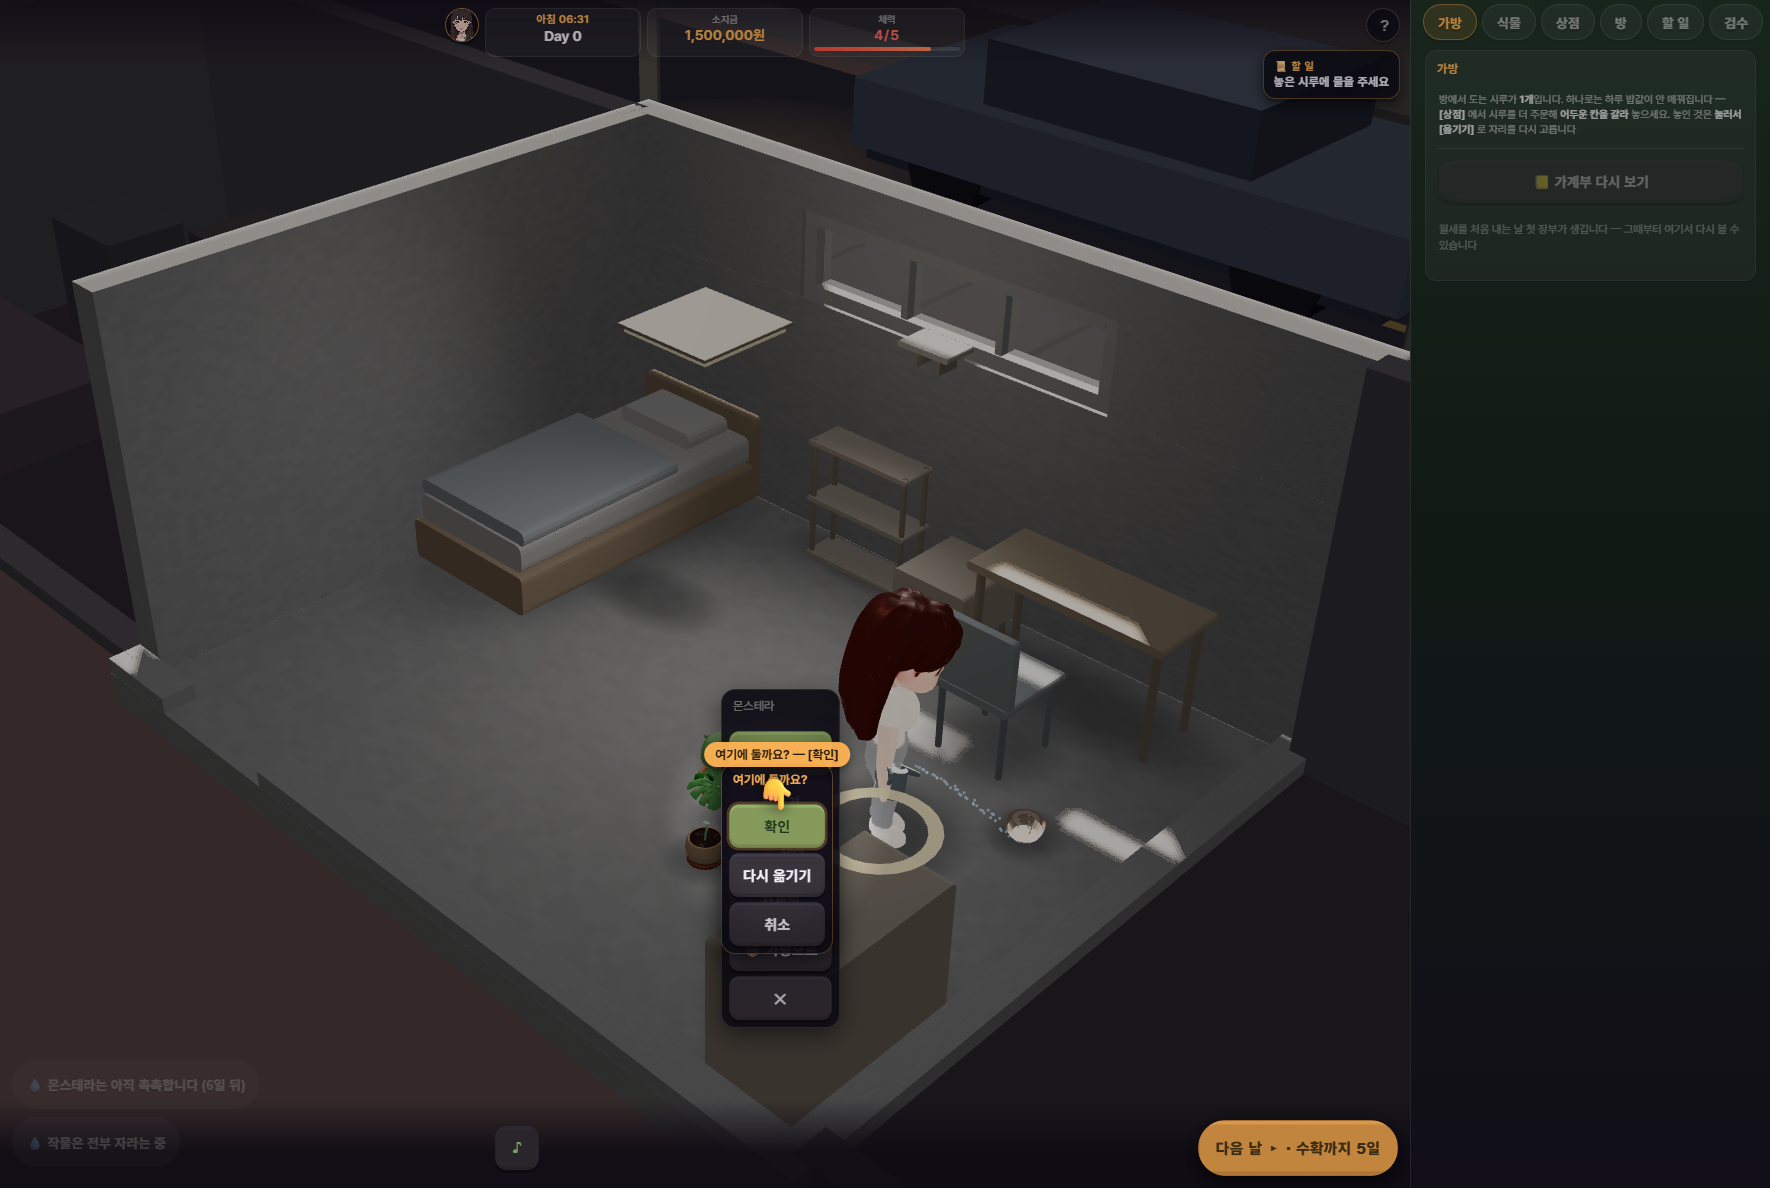
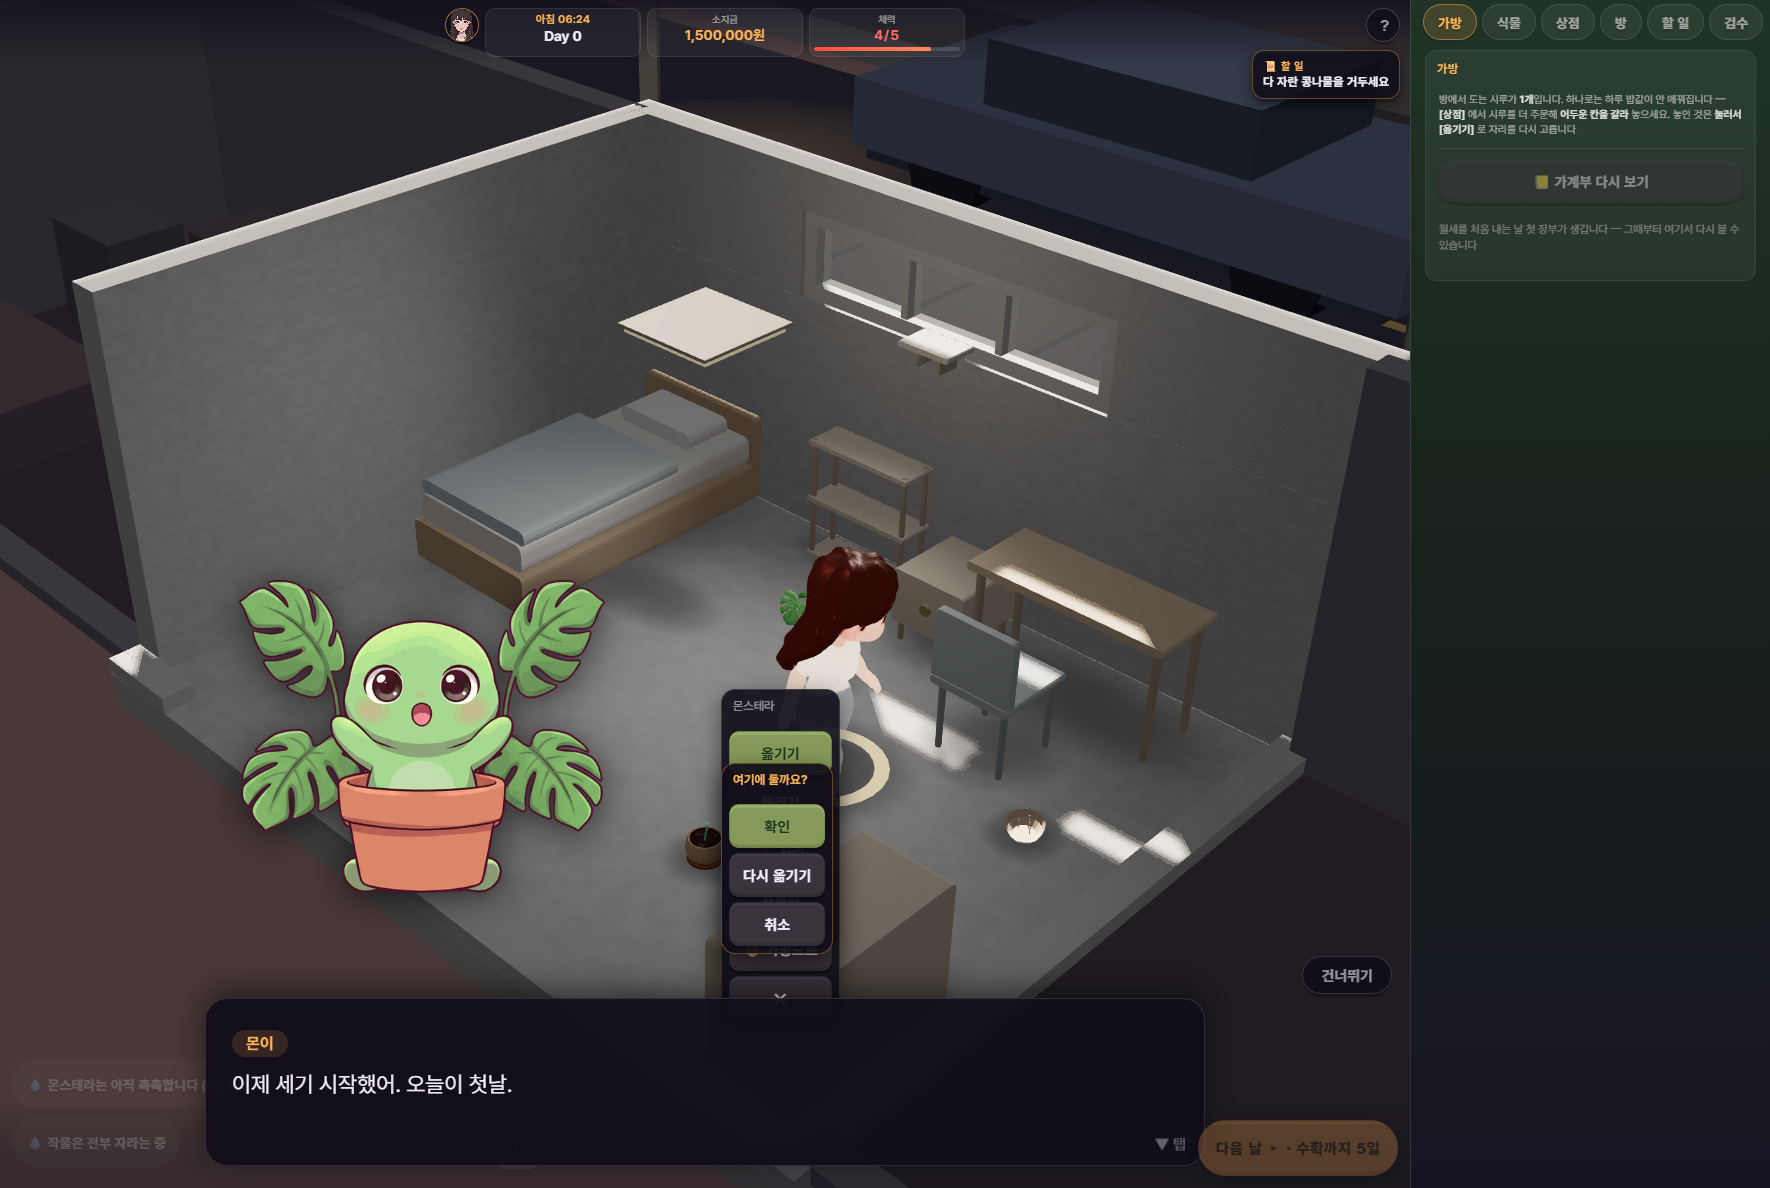
인계문 §7 — 무순 다음 날 · 뜬 날+열쇠 표 · 밥상 상자 · 2바퀴째 줄 없앰 · ⑥의 결정 대기

diff --git a/docs/handoff/hint-table-to-plan.md b/docs/handoff/hint-table-to-plan.md
@@ -208,3 +208,22 @@ HEAD 판(내 고침을 뺀 판)으로 갈아 끼우고 재도 **똑같이 떨어
 
 ⚠ 「끌기」는 데스크톱 진짜 마우스로 낸 값이다. 폰 손가락은 자로 못 낸다.
   다만 그루 칸의 `touch-action` 이 방 끌기(`#moveCatcher`)와 같은 값(`none`)인 것은 확인했다.
+
+
+---
+
+## 7. 2026-09-02 덧 — 무순 «다음 날» · 퀘스트 「뜬 날+열쇠」 표 · 밥상 상자 · 「2바퀴째」 줄 없앰
+
+| 무엇 | 자 | 잰 값 |
+|---|---|---|
+| ② 무순은 몬스테라가 집을 잡은 «다음 날»부터 | 「왔나」→「옮겼나」(monsteraHomed) + 옮긴 뒤 하루(guide.movedDays≥1 ‖ grewOnce). 상점 무순 문도 같은 셈 | 창턱 d11 → crop_mix 뜬 **d12** (전에는 d11 · 같은 날 둘) |
+| ③ 퀘스트가 «뜬 날» + «열쇠» | probe_force5 끝에 찍는다. 뜬 날은 걸어서, 열쇠는 코어 `opens` 그대로 | `monstera_home`은 열쇠가 `siru_two 끝`이라 그루가 창턱에 서고도 «영영» 안 뜬다 — 사슬 다시 짤 때 볼 자리 |
+| ④ 밥상 설명 상자 | 창 «안» `<details>` · 문안 넷 [plan] 그대로 · 처음 사흘 펴고 그 뒤 접힘(3 · core 것) · 펴서 창이 구르면 접는다(「창은 안 구른다」가 윗법) | d5·6·7 펴짐 → d8 접힘 · questui 57/57 |
+| ⑤ 「한 시루를 2바퀴째」 줄 없앰 | resow_siru → RETIRED_QUESTS(이름만) · order_seed.after = first_harvest · 문안 ㉮㉯㉯③ | first_harvest 끝 d5 → order_seed 뜬 **d5** · 사슬 안 끊김 |
+
+⚠ 손가락은 두 바퀴까지만 이끈다(박사님 2026-08-17). order_seed 의 done(세 바퀴)·siru_two 는 그 너머라 걸음 자로 못 잰다 — 사람이 걸어야 한다.
+⚠ 자 둘이 HEAD 에서도 떨어져 있다(내 손 아님): probe_questchain E-x/E-1(siru16 걸음) · probe_questorder C-1(모형에 무순 다섯을 사는 손이 없다).
+
+### ⑥ 독촉 낯 넷 — 자리는 있고 «열린 날» 칸이 없다 (총괄 결정 대기)
+「빈 날에만·맨 뒤」는 `dialogue.createStoryteller`가 이미 그 규칙이다(조용한 날 이틀 넘으면 작은 말 하나 · 가장 오래 안 나온 것부터). 낯 넷은 CHATTER 표에 넉 줄로 얹으면 된다.
+없는 것: 퀘스트가 «며칠 전에» 열렸나 — `S._questOpen`은 세이브에 안 들어간다. ㉮ `questsOpenedOn` 칸을 적는다 / ㉯ 안 적고 조용한 날 수로만(끄면 잊는다). 내 눈엔 ㉮.
